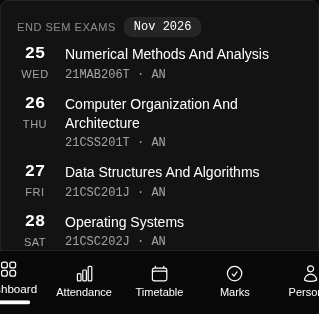
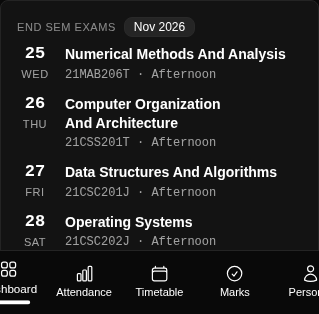
fix(web): exam card polish per review — spell the session, strengthen the name
Second vision review passed the layout but rejected four details; measured
each before acting:

- AN/FN were portal jargon with no clock times in the leaked data ->
  expanded to 'Afternoon'/'Forenoon' in _exams_view (session_disp, raw
  fallback for unknown codes)
- subject names semibold + text-balance: held their own against the day
  stamp and no longer dangle 'And' at a line end
- chip: dropped font-mono — the wide monospace space glyph read as a
  double space ('Nov  2026'); proportional text renders it correctly
- weekday centering and chip/title vertical alignment were verified
  already correct by rect measurement (text-align: center, centers
  566/566.5) — no change needed there

Re-verified: contrast 0 fails (Afternoon meta 7.15), geometry 0 fails,
test_exams 24/24 + view test (session expansion asserted), verify76
71/71, ruff clean. Vision re-review: 'Ship.' — all 4 items fixed.

diff --git a/app/templates/dashboard.html b/app/templates/dashboard.html
@@ -201,7 +201,7 @@
           <div class="bg-base-300/40 border border-base-300 rounded-box p-4 sm:col-span-2">
             <div class="flex items-center gap-2 mb-2">
               <div class="text-[11px] uppercase tracking-wider text-base-content/50">End sem exams</div>
-              <span class="badge badge-soft badge-sm font-mono">{{ exams.label }}</span>
+              <span class="badge badge-soft badge-sm">{{ exams.label }}</span>
             </div>
             <ul class="space-y-3 sm:space-y-2">
               {% for e in exams.rows %}
@@ -212,8 +212,8 @@
                   <span class="block mt-1 text-[11px] uppercase tracking-wider text-base-content/60">{{ e.dow }}</span>
                 </span>
                 <span class="min-w-0 flex-1 sm:hidden">
-                  <span class="block text-sm leading-snug text-base-content">{{ e.name_disp }}</span>
-                  <span class="block mt-0.5 font-mono text-xs text-base-content/60">{{ e.code }} · {{ e.session }}</span>
+                  <span class="block text-sm font-semibold leading-snug text-balance text-base-content">{{ e.name_disp }}</span>
+                  <span class="block mt-0.5 font-mono text-xs text-base-content/60">{{ e.code }} · {{ e.session_disp }}</span>
                 </span>
                 <!-- desktop: one dense line, date right -->
                 <span class="hidden sm:flex sm:w-full sm:items-baseline sm:justify-between sm:gap-4">
@@ -221,7 +221,7 @@
                     <span class="font-mono text-base-content/60">{{ e.code }}</span>
                     <span class="text-base-content">{{ e.name_disp }}</span>
                   </span>
-                  <span class="shrink-0 font-mono text-xs text-base-content/60">{{ e.short }} · {{ e.session }}</span>
+                  <span class="shrink-0 font-mono text-xs text-base-content/60">{{ e.short }} · {{ e.session_disp }}</span>
                 </span>
               </li>
               {% endfor %}

diff --git a/tests/test_exams_view.py b/tests/test_exams_view.py
@@ -23,6 +23,9 @@ assert [r["day"] for r in v["rows"]] == ["25", "27"]
 assert v["rows"][0]["dow"] in ("Tue", "Wed"), v["rows"][0]["dow"]   # 25 Nov 2026 = Wednesday
 assert v["rows"][0]["name_disp"] == "Numerical Methods And Analysis"
 assert v["label"] == "Nov 2026" and v["days_until"] > 0
+assert v["rows"][0]["session_disp"] == "Afternoon"          # AN/FN expanded
+assert _exams_view([{"code": "X", "name": "A B", "date": "25-11-2026",
+                    "session": "ZZ"}])["rows"][0]["session_disp"] == "ZZ"
 # junk date falls back to the raw value, never crashes
 v2 = _exams_view([{"code": "X", "name": "A B", "date": "junk", "session": "FN"}])
 assert v2["rows"][0]["short"] == "junk" and v2["rows"][0]["dow"] == ""

diff --git a/app/app.py b/app/app.py
@@ -1466,6 +1466,9 @@ def _exams_view(rows):
         r["dow"] = d.strftime("%a") if d else ""
         # portal returns ALL-CAPS names; shouty when wrapped on a narrow screen
         r["name_disp"] = " ".join(w.capitalize() for w in r.get("name", "").split())
+        # portal codes: AN/FN are exam-cell jargon; expand (no clock times exist in the leak)
+        r["session_disp"] = {"AN": "Afternoon", "FN": "Forenoon"}.get(
+            r.get("session", ""), r.get("session", ""))
     first = ts(rows[0])
     last = ts(rows[-1])
     days = (first.date() - datetime.now().date()).days
